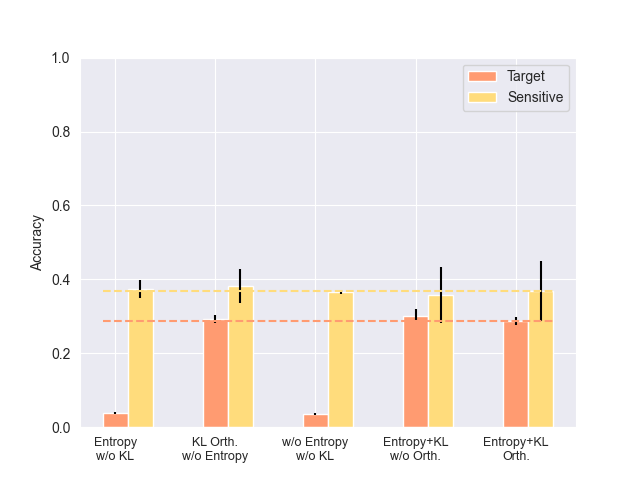
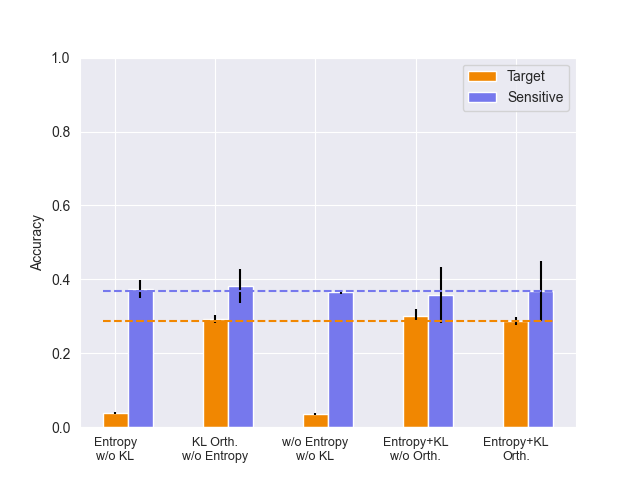
update ablative plot style

diff --git a/scripts/visualize_ablative.py b/scripts/visualize_ablative.py
@@ -78,10 +78,8 @@ if __name__ == "__main__":
 
     # start plottin
     plt.clf()
-    # TARGET_COLOR = "#6ba292"
-    # SENSITIVE_COLOR = "#e4fde1"
-    TARGET_COLOR = "#ff9b71"
-    SENSITIVE_COLOR = "#ffdc7c"
+    TARGET_COLOR = "#F18701"
+    SENSITIVE_COLOR = "#7678ED"
     fig, ax = plt.subplots()
     bwidth = 0.25
     bar_idxs_t = np.arange(len(labels))
